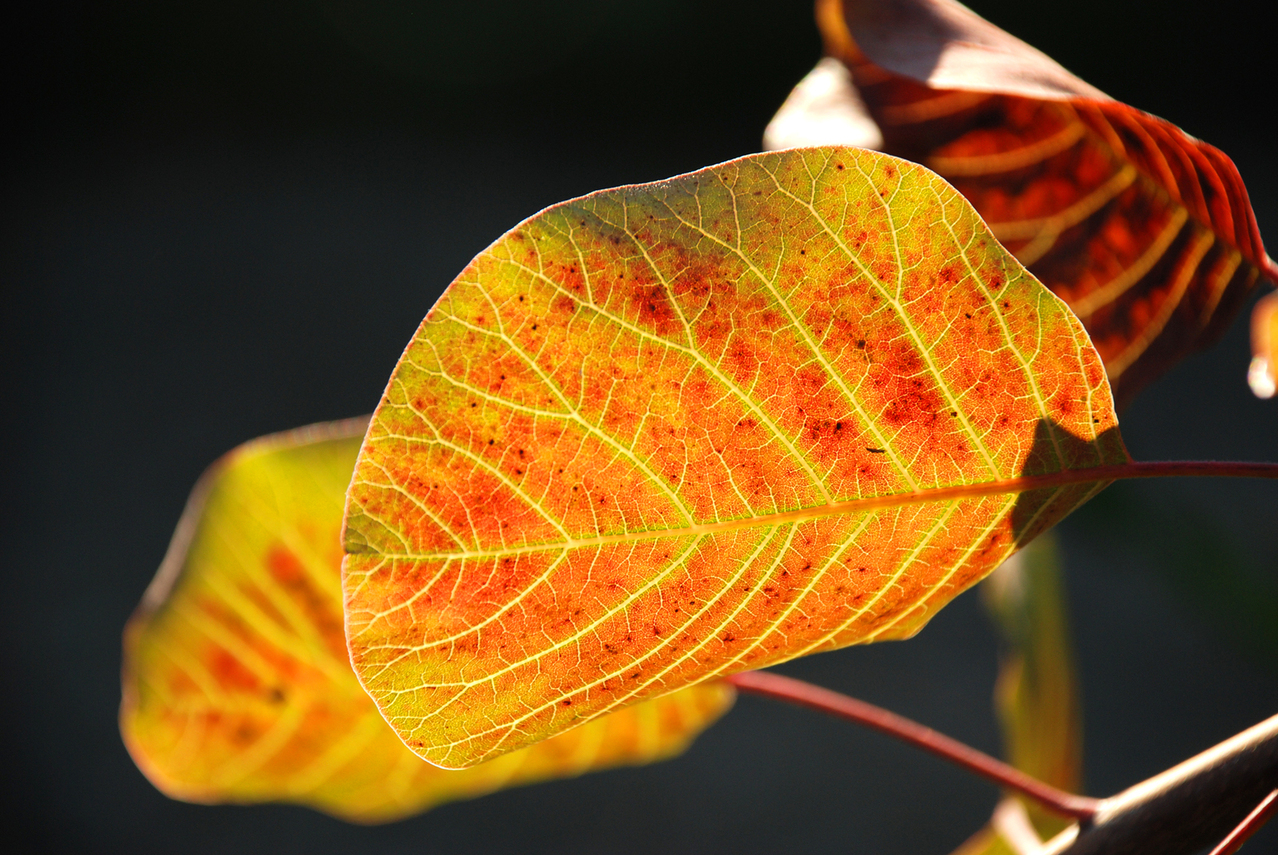
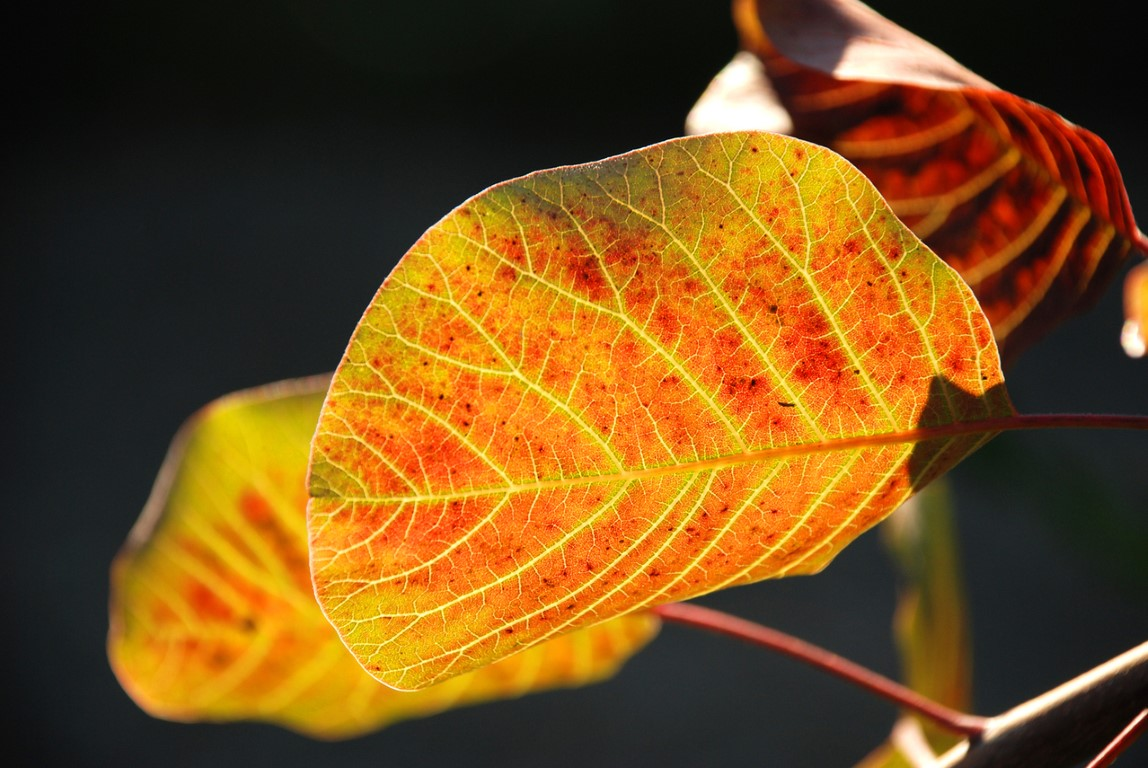
shrink images

diff --git a/_posts/2023-01-06-problem-details.md b/_posts/2023-01-06-problem-details.md
@@ -220,7 +220,7 @@ Throwing the not implemented exception is pretty much the same as the default.
 
 ### DeveloperExceptionPage + MyMiddleware (5)
 
-This loses my middleware and returns the same as DeveloperExceptionPage (1) above.
+Since I have `UseDeveloperExceptionPage` after my middleware in `Program.cs`, it catches the exception instead of my middleware, so the output is like DeveloperExceptionPage (1) above.
 
 ### CustomProblemDetails + MyMiddleware (6)
 
@@ -237,6 +237,6 @@ This was a fun playing with the new feature, but a little disappointed with the 
 ## Links
 
 - [MS Doc: ProblemDetails](https://learn.microsoft.com/en-us/dotnet/api/microsoft.aspnetcore.mvc.problemdetails)
-- [ProblemDetailsService](https://learn.microsoft.com/en-us/dotnet/api/microsoft.aspnetcore.http.iproblemdetailsservice)
-- [RFC7807](https://tools.ietf.org/html/rfc7807)
+- [MS Doc: ProblemDetailsService](https://learn.microsoft.com/en-us/dotnet/api/microsoft.aspnetcore.http.iproblemdetailsservice)
+- [RFC7807](https://tools.ietf.org/html/rfc7807) - Problem Details for HTTP APIs Spec
 - [Andrew Lock: Handling Web API Exceptions with ProblemDetails middleware](https://andrewlock.net/handling-web-api-exceptions-with-problemdetails-middleware/) talks about using Hellang's NuGet package for ProblemDetails
